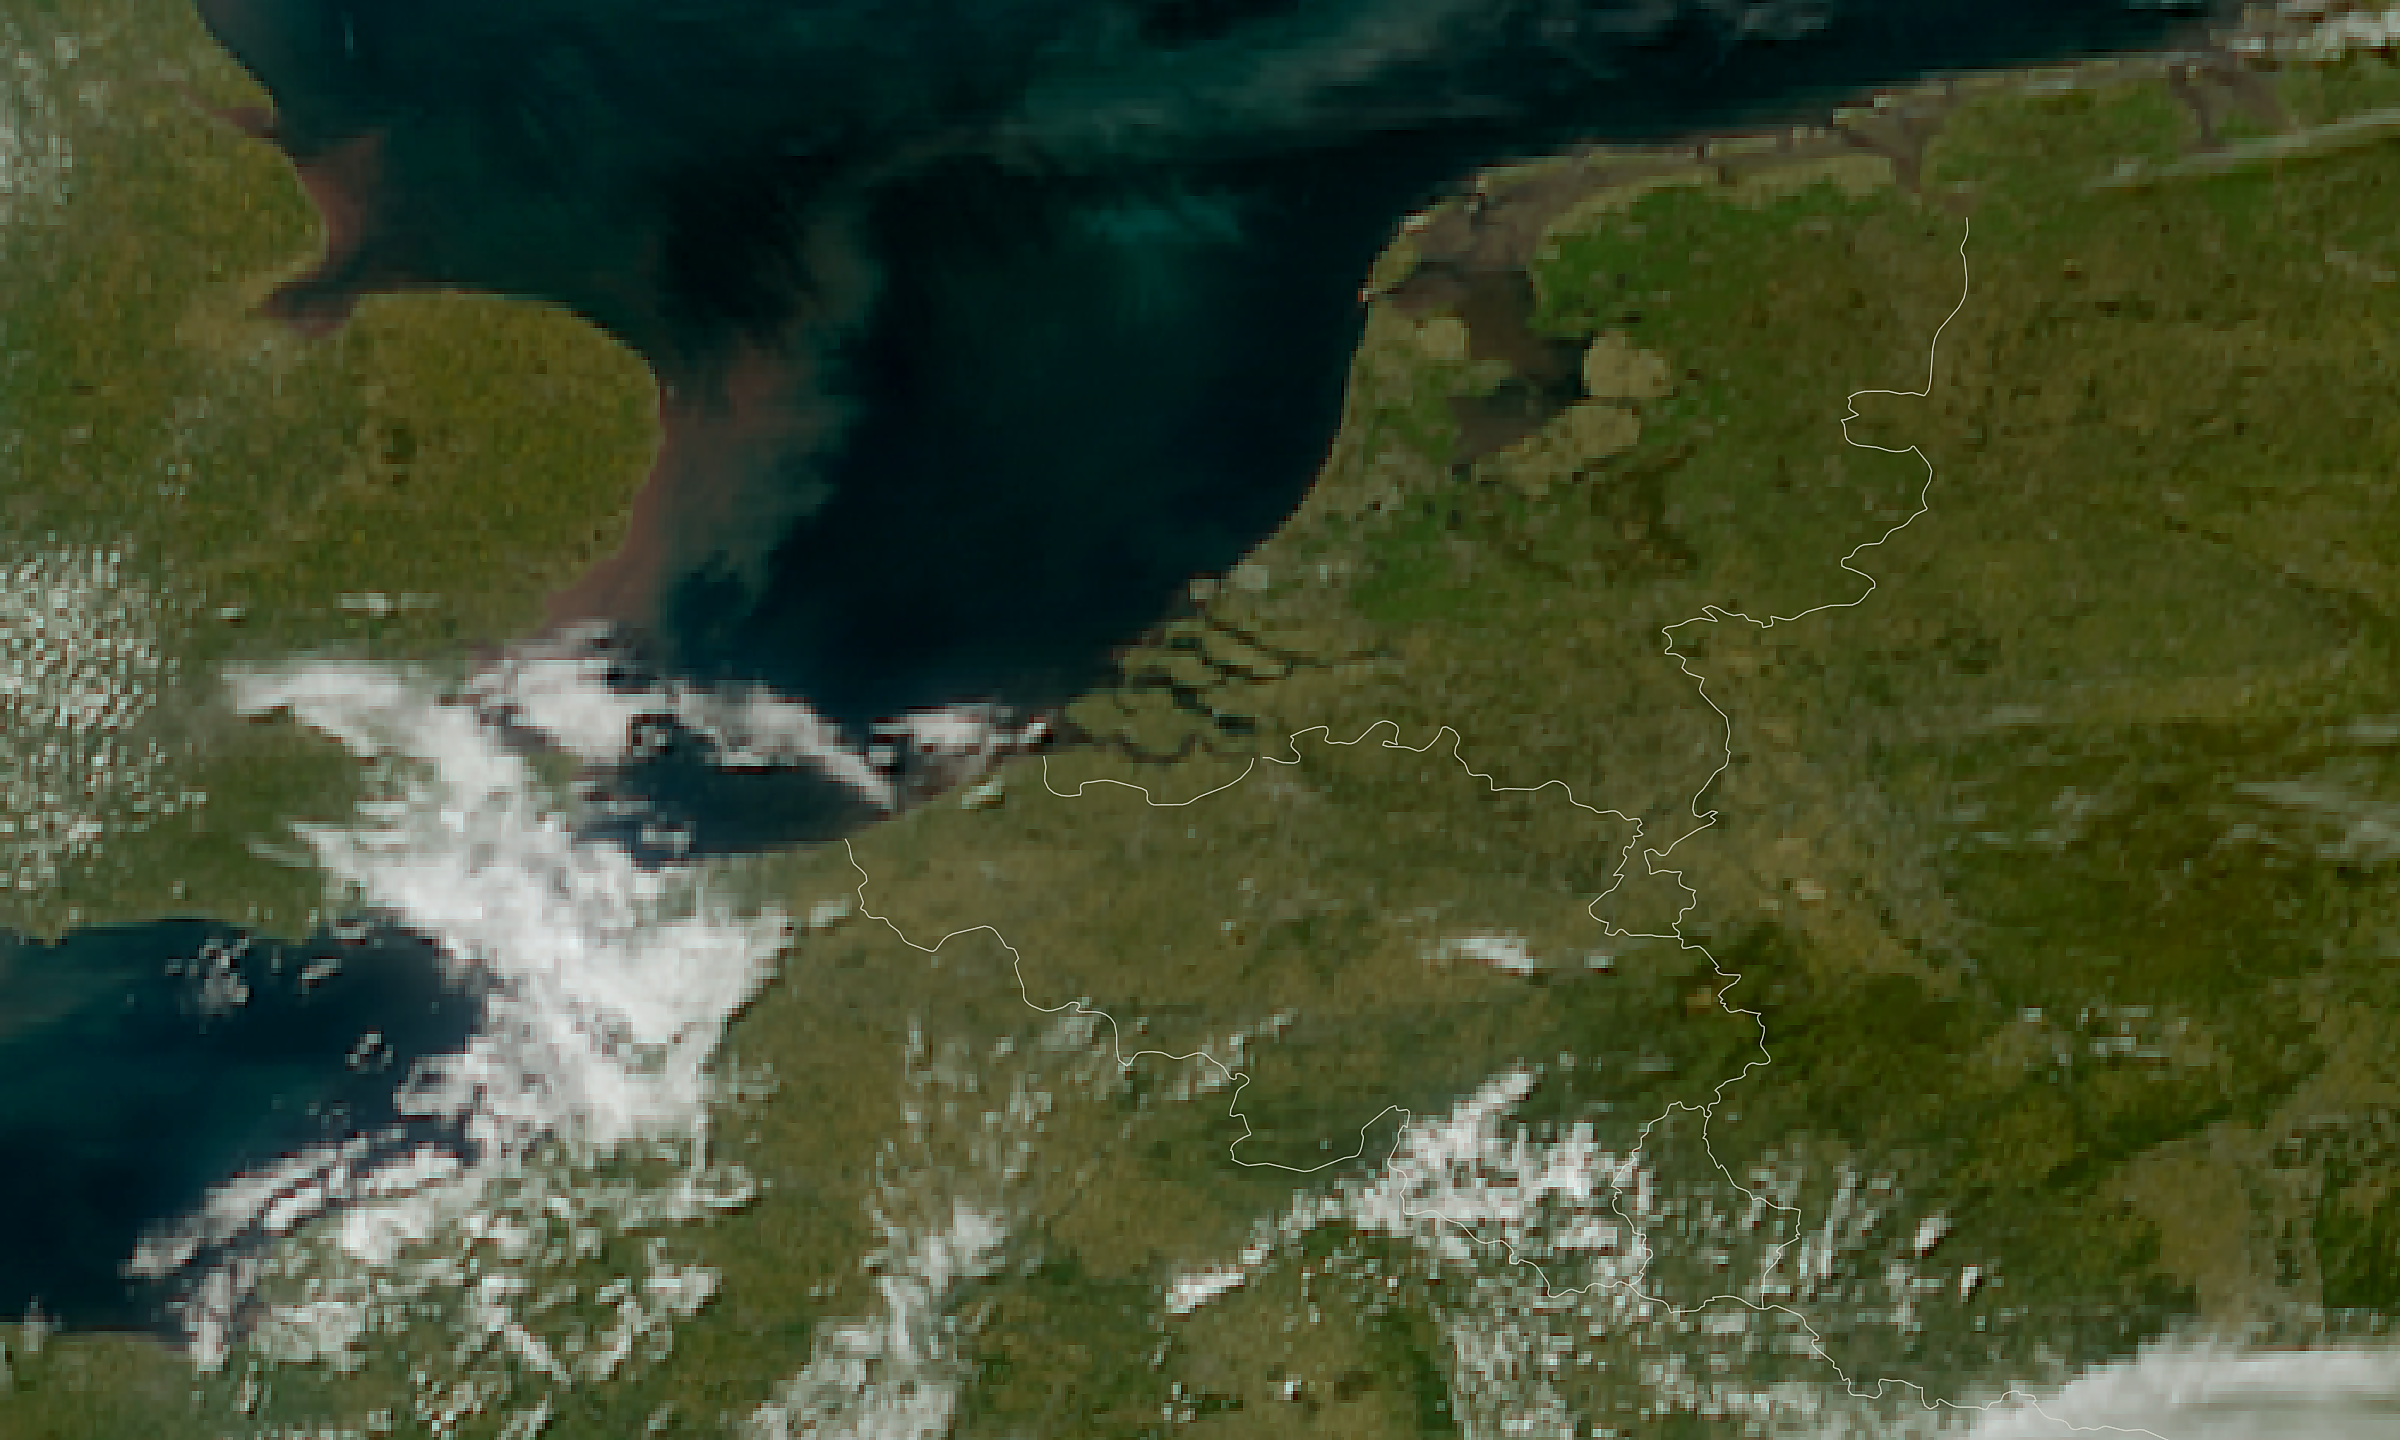
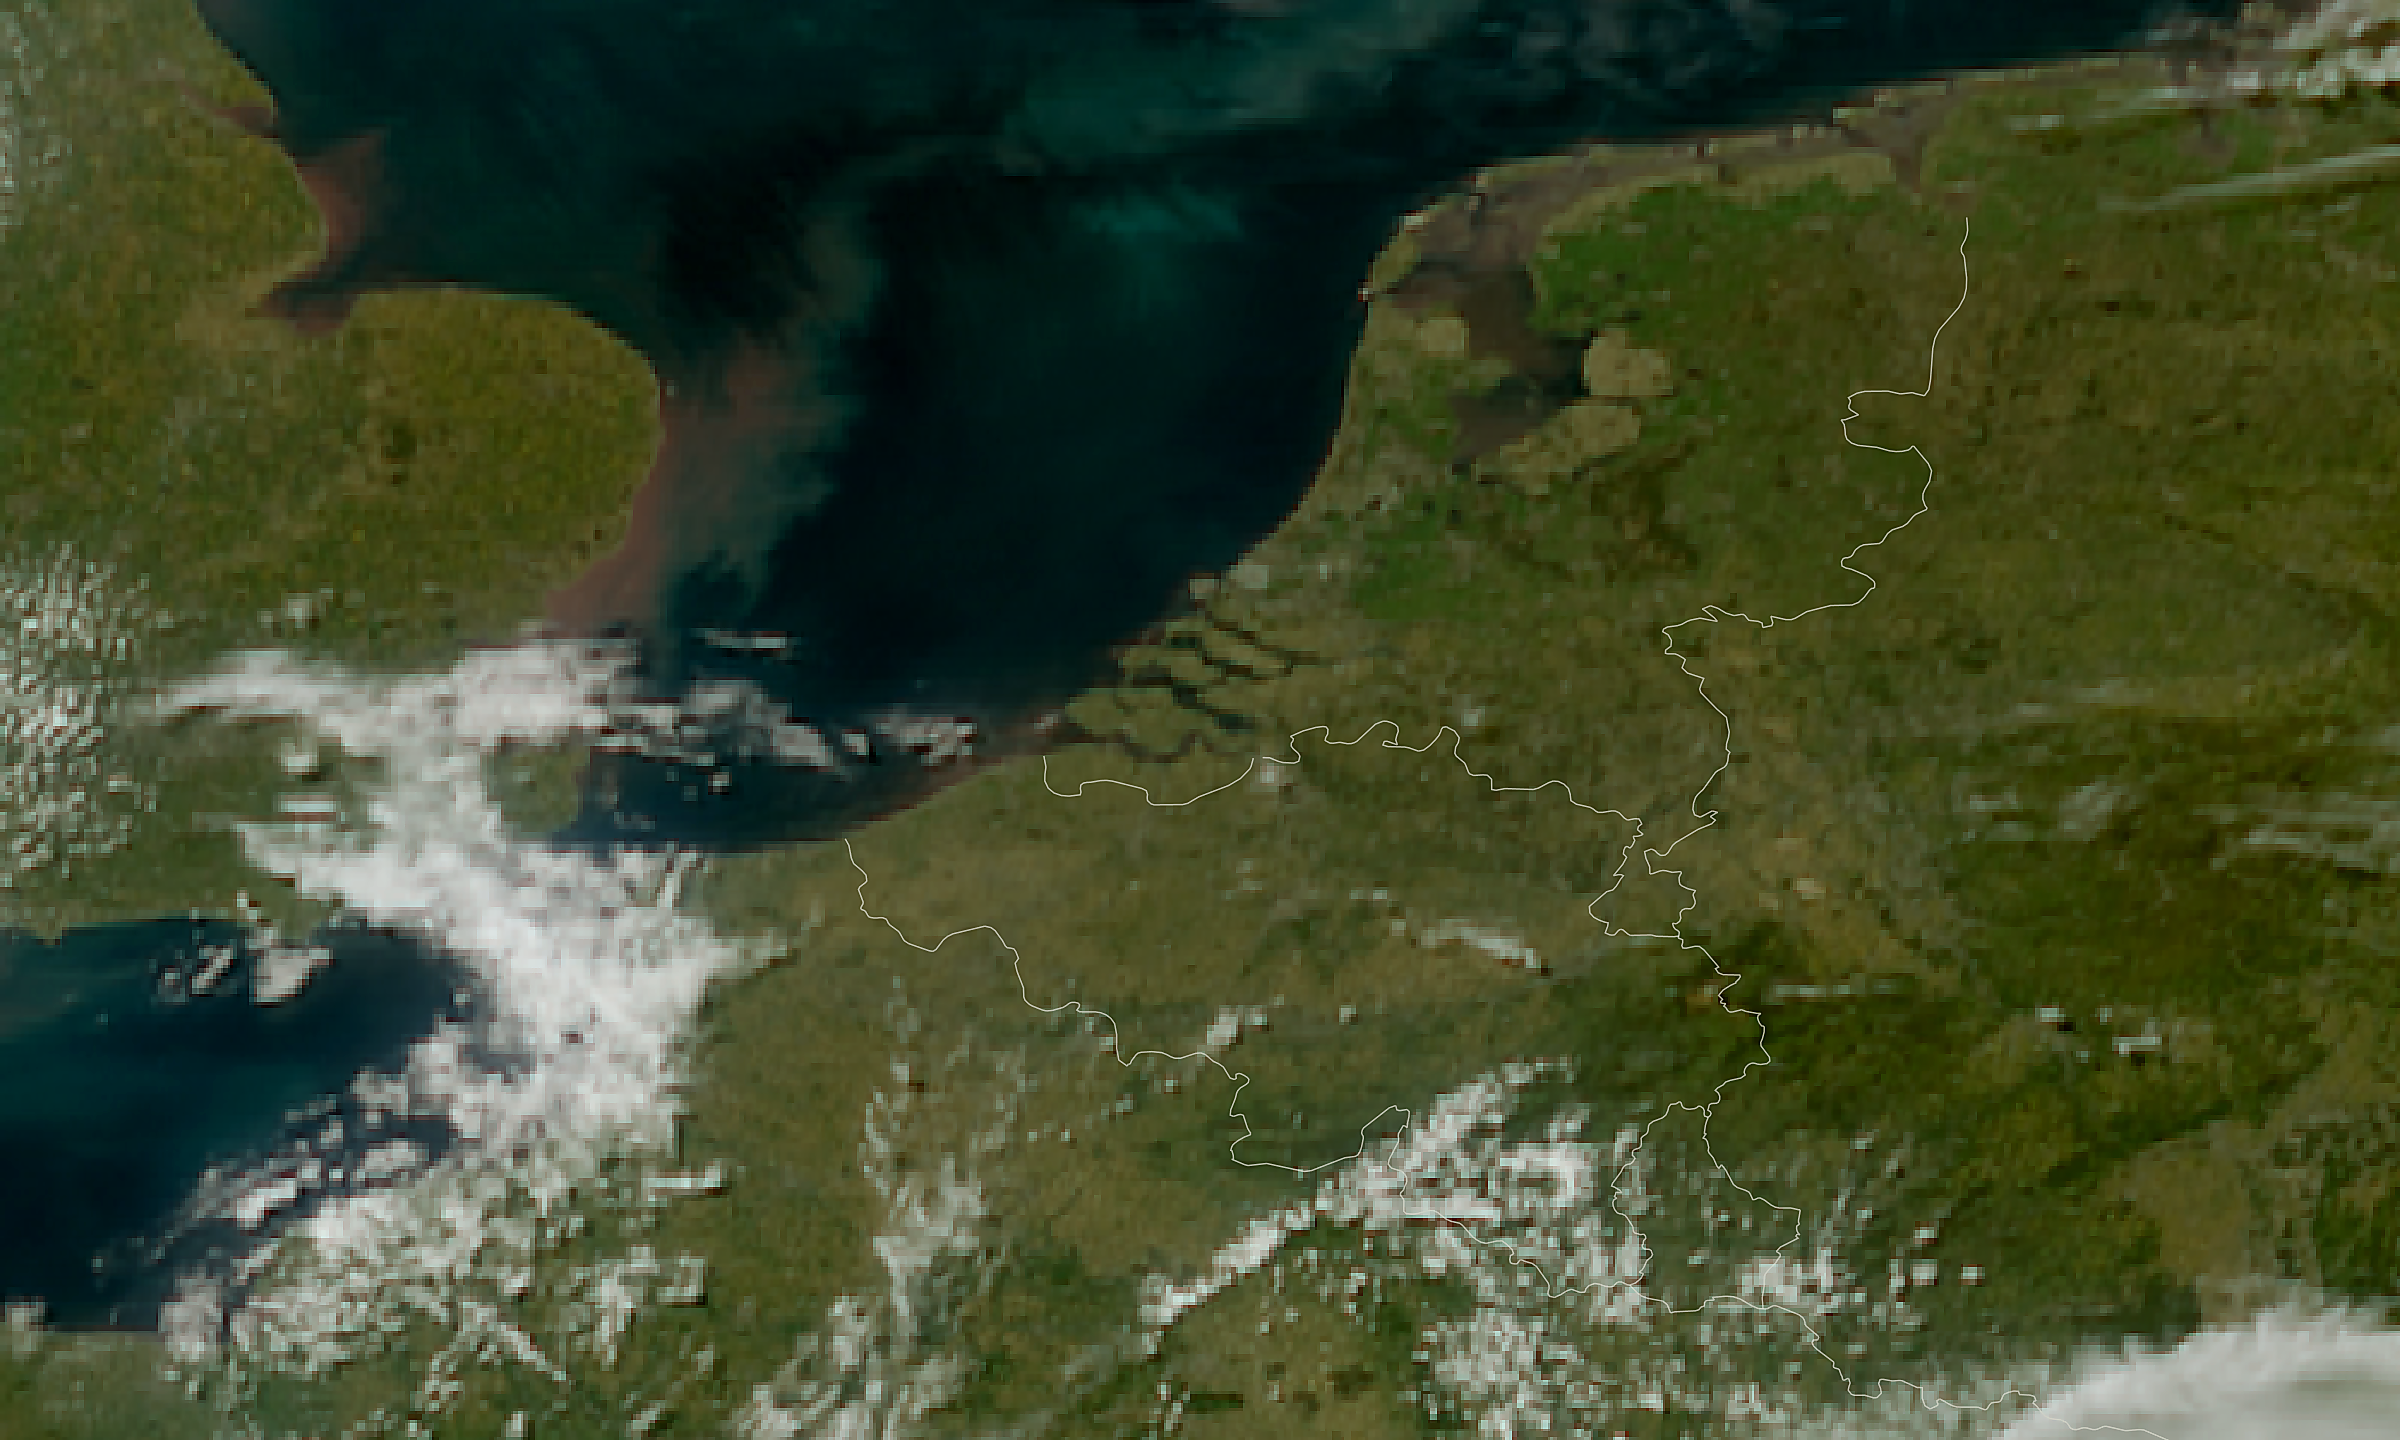
MTG Benelux satellietbeeld update 2026-04-28 16:45

diff --git a/mtg_benelux_meta.js b/mtg_benelux_meta.js
@@ -1,2 +1,2 @@
 const MTG_BENELUX_PRODUCT = "mtg_fd:rgb_truecolour";
-const MTG_BENELUX_TIJD = "2026-04-28T14:10:00Z";
+const MTG_BENELUX_TIJD = "2026-04-28T14:20:00Z";
